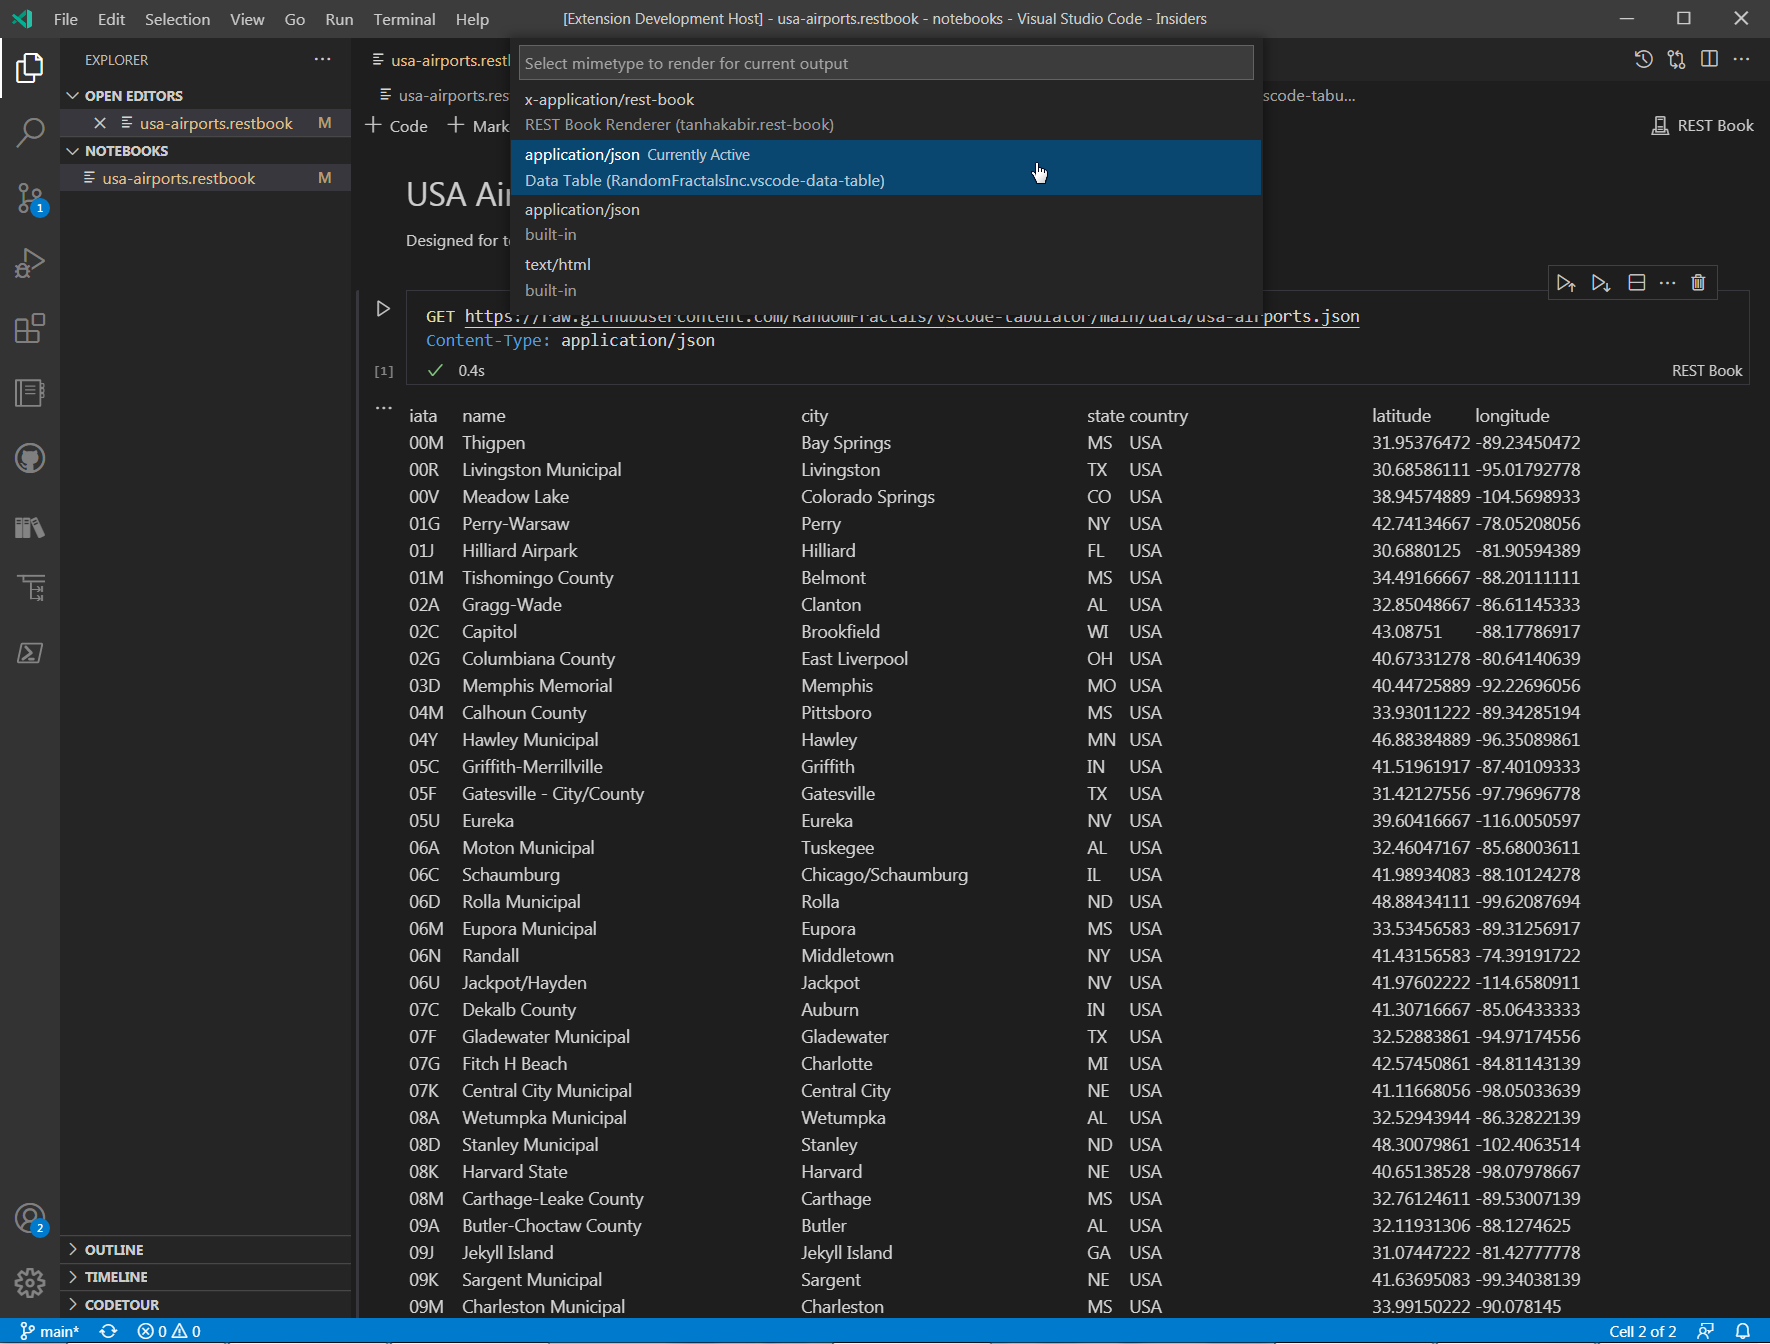
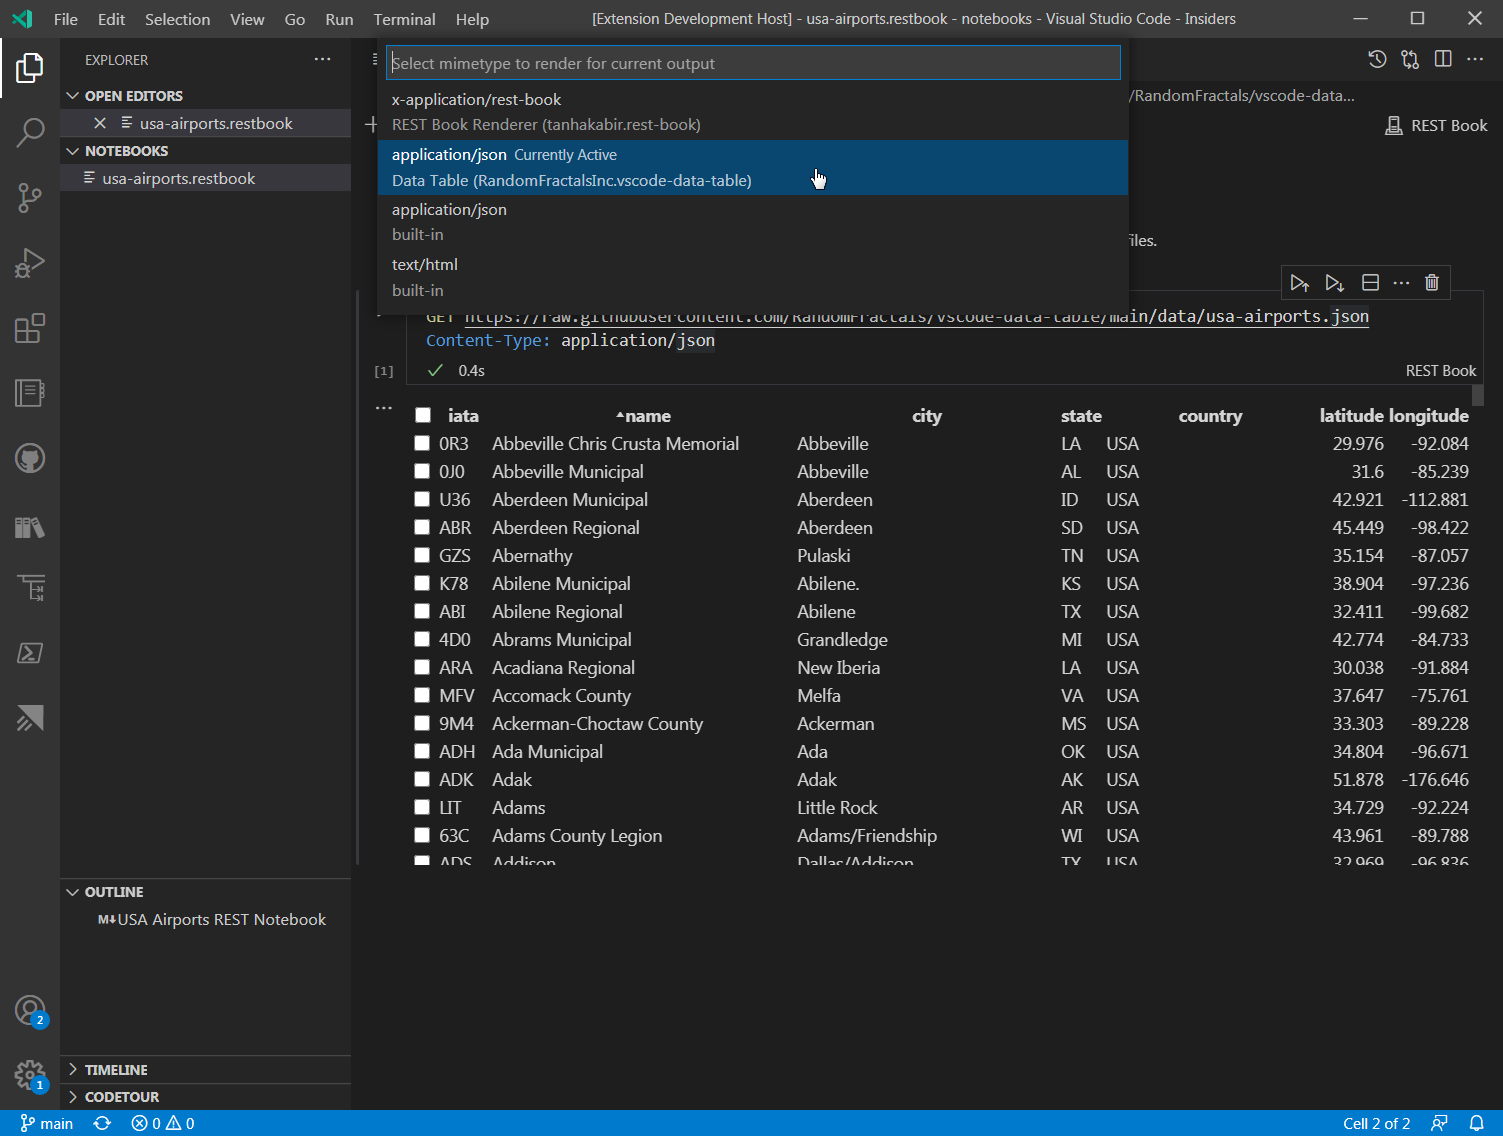
update data table renderer pic in docs for mvp release (#18)

diff --git a/README.md b/README.md
@@ -11,7 +11,7 @@ See [Data Preview](https://github.com/RandomFractals/vscode-data-preview) 🈸 v
 ## Notebook 📓 Data Table 🈸 Renderer View
 
 ![Notebook 📓 Data Table Renderer View](https://github.com/RandomFractals/vscode-data-table/blob/main/docs/images/data-table-renderer.png?raw=true 
- "Chicago Transportation Notebooks 📚 Collection")
+ "Notebook 📓 Data Table Renderer View")
 
 ## Notebook 📓 Data Table 🈸 Renderer Features
 
